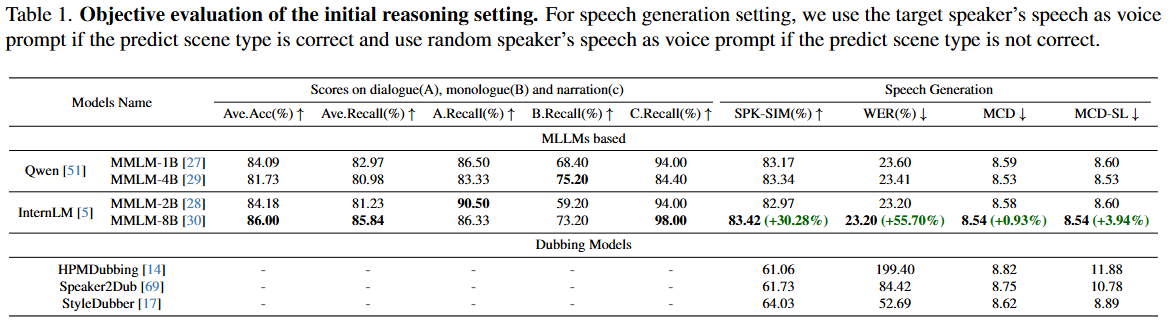
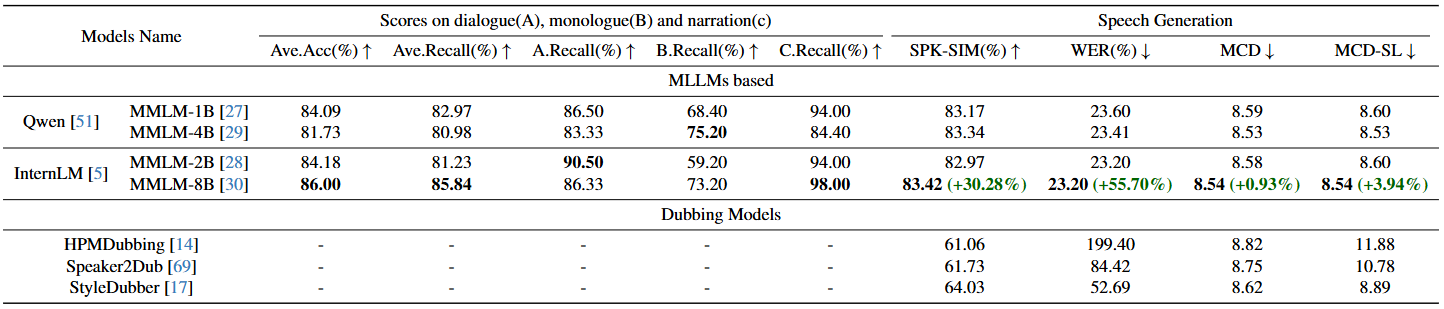
init

Changed region(s): [[0.0, 0.0, 1.0, 0.9903]]

diff --git a/index.html b/index.html
@@ -162,22 +162,26 @@
     </section>
 
     <!-- Teaser video-->
-    <section class="hero teaser">
+    <!-- <section class="hero teaser">
       <div class="container is-max-desktop">
-        <div class="hero-body">
-          <!-- <video poster="" id="tree" autoplay controls muted loop height="100%"> -->
-          <!-- Your video here -->
-          <!-- <source src="static/videos/banner_video.mp4" type="video/mp4" /> -->
-          <img src="static/images/r1o1.png" alt="MY ALT TEXT" />
-          <!-- </video> -->
-          <h2 class="subtitle has-text-centered">
+        <div class="hero-body"> -->
+    <!-- <video poster="" id="tree" autoplay controls muted loop height="100%"> -->
+    <!-- Your video here -->
+    <!-- <source src="static/videos/banner_video.mp4" type="video/mp4" /> -->
+    <!-- <img
+            src="static/images/r1o1.png"
+            alt="MY ALT TEXT"
+            class="center-image"
+          /> -->
+    <!-- </video> -->
+    <!-- <h2 class="subtitle has-text-centered">
             Objective evaluation of the Reasoning Stage based on scores in
             dialogue (A), monologue (B), and narration (C) under two different
             levels
           </h2>
         </div>
       </div>
-    </section>
+    </section> -->
     <!-- End teaser video -->
 
     <!-- Paper abstract -->
@@ -219,6 +223,55 @@
       </div>
     </section>
     <!-- End paper abstract -->
+
+    <!-- Teaser Image-->
+    <section class="hero teaser">
+      <div class="container is-max-desktop">
+        <div class="hero-body">
+          <!-- <video poster="" id="tree" autoplay controls muted loop height="100%"> -->
+          <!-- Your video here -->
+          <!-- <source src="static/videos/banner_video.mp4" type="video/mp4" /> -->
+          <img
+            src="static/images/r1o1.png"
+            alt="MY ALT TEXT"
+            class="center-image"
+          />
+          <!-- </video> -->
+          <h2 class="subtitle has-text-centered">
+            Objective evaluation of the initial reasoning setting. For speech
+            generation setting, we use the target speaker's speech as voice
+            prompt if the predict scene type is correct and use random speaker's
+            speech as voice prompt if the predict scene type is not correct.
+          </h2>
+          <img
+            src="static/images/r2o1.png"
+            alt="MY ALT TEXT"
+            class="center-image"
+          />
+          <!-- </video> -->
+          <h2 class="subtitle has-text-centered">
+            Ablation of objective evaluation under the initial reasoning setting
+            on the proposed dataset. For the speech generation setting, we use
+            the target speaker's speech as a voice prompt if the predicted scene
+            type is correct, and a random speaker's speech if the predicted
+            scene type is incorrect. F&O Reward refers to format reward and
+            outcome reward.
+          </h2>
+          <img
+            src="static/images/r3o1.png"
+            alt="MY ALT TEXT"
+            class="center-image"
+          />
+          <!-- </video> -->
+          <h2 class="subtitle has-text-centered">
+            Objective evaluation of the Reasoning Stage based on scores in
+            dialogue (A), monologue (B), and narration (C) under two different
+            levels.
+          </h2>
+        </div>
+      </div>
+    </section>
+    <!-- End teaser Image -->
 
     <!-- Image carousel -->
     <section class="hero is-small">
